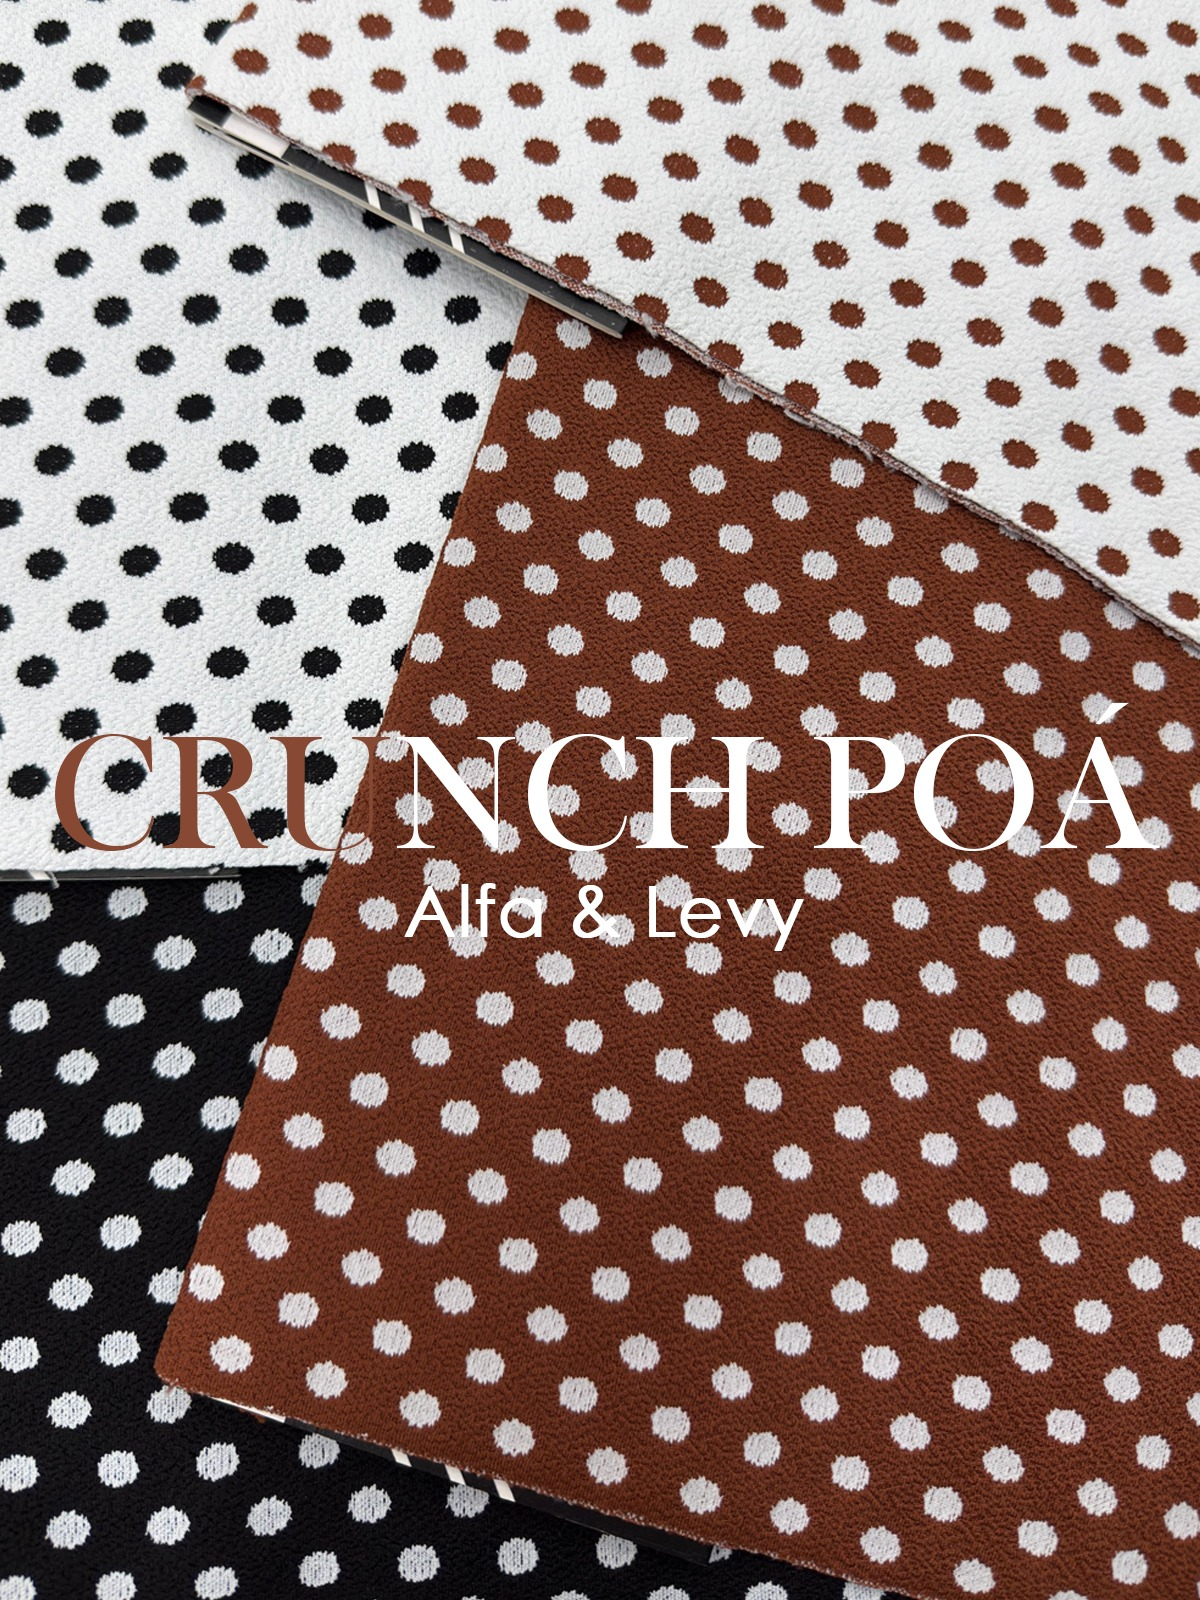
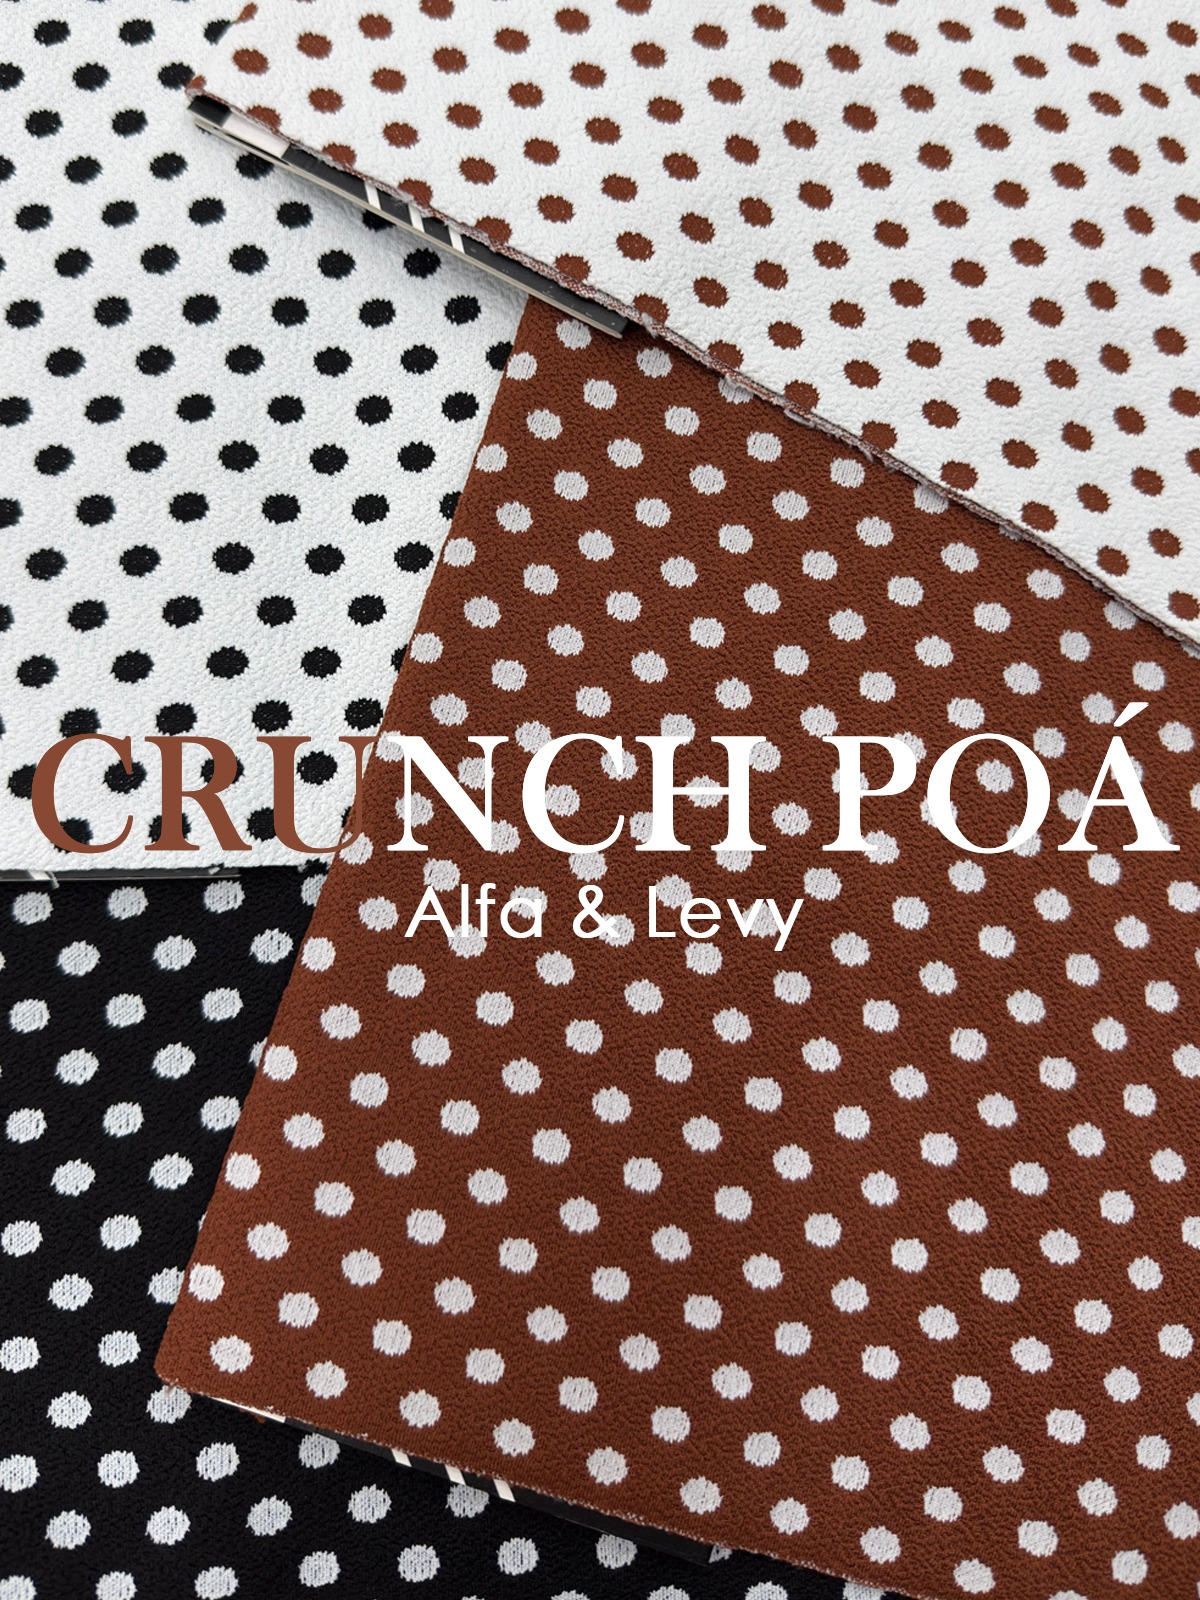
add tramas

diff --git a/index.html b/index.html
@@ -129,7 +129,7 @@
           <label class="filter-item"><input type="checkbox" value="LISOS"        onchange="applyFilters()"><span>Lisos</span></label>
           <label class="filter-item"><input type="checkbox" value="TEXTURIZADOS" onchange="applyFilters()"><span>Texturizados</span></label>
           <label class="filter-item"><input type="checkbox" value="ESTAMPADOS"   onchange="applyFilters()"><span>Estampados</span></label>
-          <label class="filter-item"><input type="checkbox" value="TRAMAS ABERTA"onchange="applyFilters()"><span>Tramas Abertas</span></label>
+          <label class="filter-item"><input type="checkbox" value="TRAMAS" onchange="applyFilters()"><span>Tramas Abertas</span></label>
         </div>
       </div>
 
@@ -150,7 +150,7 @@
     </div>
     <div class="cat-section-line"></div>
   </div>
-  <p class="cat-section-desc reveal">Acabamento uniforme e cores sólidas. Versatilidade máxima para coleções modernas e sofisticadas.</p>
+  <p class="cat-section-desc reveal"><strong>Acabamento uniforme e cores sólidas. Versatilidade máxima para coleções modernas e sofisticadas.</strong></p>
 </div>
 
 <div class="fabrics-wrap">
@@ -210,7 +210,7 @@
     </div>
     <div class="cat-section-line"></div>
   </div>
-  <p class="cat-section-desc reveal">Tramas vazadas com personalidade artesanal. Tendências imperdíveis para moda praia.</p>
+  <p class="cat-section-desc reveal"><strong> Tecidos com estruturas vazadas, redes e entrelaçamentos artesanais que proporcionam transparência e ventilação. Ideais para sobreposições e saídas de praia sofisticadas.</strong>".</p>
 </div>
 
 <div class="fabrics-wrap">
@@ -234,6 +234,18 @@
       <span class="fabric-pages-badge">5 variações</span>
       <div class="fabric-info">
         <span class="fabric-name">Macramê Franja Palmer</span>
+        <span class="fabric-tag">Moda Praia · Moda Casual</span>
+        <p class="fabric-desc">Visual rústico e sofisticado com técnica artesanal de macramê. Peças de moda praia com muito estilo.</p>
+        <span class="fabric-cta">Ver variações <svg style="width:11px;height:11px;fill:currentColor"><use href="#ico-arrow"/></svg></span>
+      </div>
+    </div>
+
+    <div class="fabric-card" data-key="TELA_FIT_POLIESTER" onclick="openFabric('TELA_FIT_POLIESTER')">
+      <img src="images/tecidos/TRAMAS/TELA_FIT_POLIESTER/page-01.jpg" alt="Tela Fit Poliéster" loading="lazy">
+      <div class="fabric-overlay"></div>
+      <span class="fabric-pages-badge">5 variações</span>
+      <div class="fabric-info">
+        <span class="fabric-name">Tela Fit Poliéster</span>
         <span class="fabric-tag">Moda Praia · Moda Casual</span>
         <p class="fabric-desc">Visual rústico e sofisticado com técnica artesanal de macramê. Peças de moda praia com muito estilo.</p>
         <span class="fabric-cta">Ver variações <svg style="width:11px;height:11px;fill:currentColor"><use href="#ico-arrow"/></svg></span>

diff --git a/js/fabrics-data.js b/js/fabrics-data.js
@@ -42,7 +42,7 @@ const FABRICS = {
   // ── TRAMAS ───────────────────────────────────────────────────
   MACRAME_PALMER: {
     name: 'Macramê Franja Palmer', category: 'TRAMAS', tag: 'Moda Praia · Moda Casual',
-    desc: 'Textura de tramas abertas inspirada na técnica artesanal do macramê. Visual rústico e sofisticado para peças com personalidade.',
+    desc: 'Malha jacquard com efeito macramê e acabamento em franjas, que traz movimento e personalidade à peça. Sua estrutura de tramas abertas combinada ao toque macio proporciona um visual artesanal com apelo moderno, ideal para criações que valorizam textura e leveza. Com composição em poliamida com elastano, oferece conforto, flexibilidade e ótimo caimento. Perfeita para moda praia e casual, especialmente em peças como saídas, vestidos e sobreposições que exploram o efeito fluido das franjas.',
     pages: 5, colorsTitle: 'Variações',
     largura: '1,40m', rendimento: '3,86m', gramatura: '185g/m²', composicao: '96% Poliamida, 4% Elastano',
     attributes: ['02.PRAIA2.jpg','04.MODA.jpg','05.TOQUE-MACIO.jpg','13.ELASTICIDADE1.jpg'],
@@ -52,6 +52,14 @@ const FABRICS = {
     name: 'Macramê', category: 'TRAMAS', tag: 'Moda Praia · Moda',
     desc: 'Textura artesanal com nós e vazados característicos do macramê. Peças com personalidade e estilo único.',
     pages: 3, colorsTitle: 'Variações',
+  },
+  TELA_FIT_POLIESTER: {
+    name: 'Tela Fit Poliéster', category: 'TRAMAS', tag: 'Fitness · Esportivo',
+    desc: 'Tecido de malha de urdume, construção tule (mesh), composto por fios defilamentos de poliéster texturizado e por elastano, que confere ao produto um toque macio e confortável. A malha de urdume é caracterizada por sua estrutura aberta e leve, proporcionando excelente respirabilidade e ventilação. Ideal para peças de performance, como regatas, tops e recortes estratégicos, onde a ventilação é essencial para o conforto durante a prática de atividades físicas. FPU 50+ vitalício devido ao fio de poliéster ser enriquecido com dióxido de titânio em sua massa.',
+    pages: 8, colorsTitle: 'Variações',
+    largura: '1,75m', rendimento: '5,43m/kg', gramatura: '119g/m²', composicao: '96% Poliamida, 4% Elastano',
+    attributes: ['25.ESPORTIVO.jpg','02.PRAIA2.jpg','25.LAZER.jpg','11.RESPIRABILIDADE.jpg'],
+    bookUrl: 'book.html?fabric=TELA_FIT_POLIESTER',
   },
 
   // ── TEXTURIZADOS ─────────────────────────────────────────────

diff --git a/css/style.css b/css/style.css
@@ -132,8 +132,8 @@ nav{
 .cat-section-label{font-size:10px;letter-spacing:6px;text-transform:uppercase;color:var(--gold);white-space:nowrap;}
 .cat-section-title{font-family:'Cormorant Garamond',serif;font-size:clamp(36px,5vw,60px);font-weight:300;line-height:1;color:var(--white);}
 .cat-section-title em{font-style:italic;color:var(--lavender);}
-.cat-section-line{flex:1;height:1px;background:linear-gradient(to right,rgba(139,69,200,0.3),transparent);}
-.cat-section-desc{font-size:13px;line-height:1.8;color:rgba(196,159,224,0.55);max-width:560px;margin-bottom:44px;}
+.cat-section-line{flex:1;height:1px;background:linear-gradient(to right,rgba(139, 69, 200, 0),transparent);}
+.cat-section-desc{font-size:17px;line-height:1.6;color:rgba(216, 184, 240, 0.55);max-width:560px;margin-bottom:44px;}
 
 /* ── FABRICS GRID ── */
 .fabrics-wrap{padding:0 5vw 80px;}

diff --git a/js/modal.js b/js/modal.js
@@ -5,7 +5,7 @@
    ═══════════════════════════════════════════════════════════════ */
 
 // Ícones que representam "indicado para" (uso)
-const USO_ICONS = ['01.FITNESS.jpg','02.PRAIA2.jpg','04.MODA.jpg','10.LINGERIE.jpg','25.ESPORTIVO.jpg','02.DRY.jpg'];
+const USO_ICONS = ['01.FITNESS.jpg','02.PRAIA2.jpg','04.MODA.jpg','10.LINGERIE.jpg','25.ESPORTIVO.jpg','02.DRY.jpg','25.LAZER.jpg','25.FORRO.jpg'];
 
 let currentLightboxImages = [];
 let currentLightboxIndex  = 0;